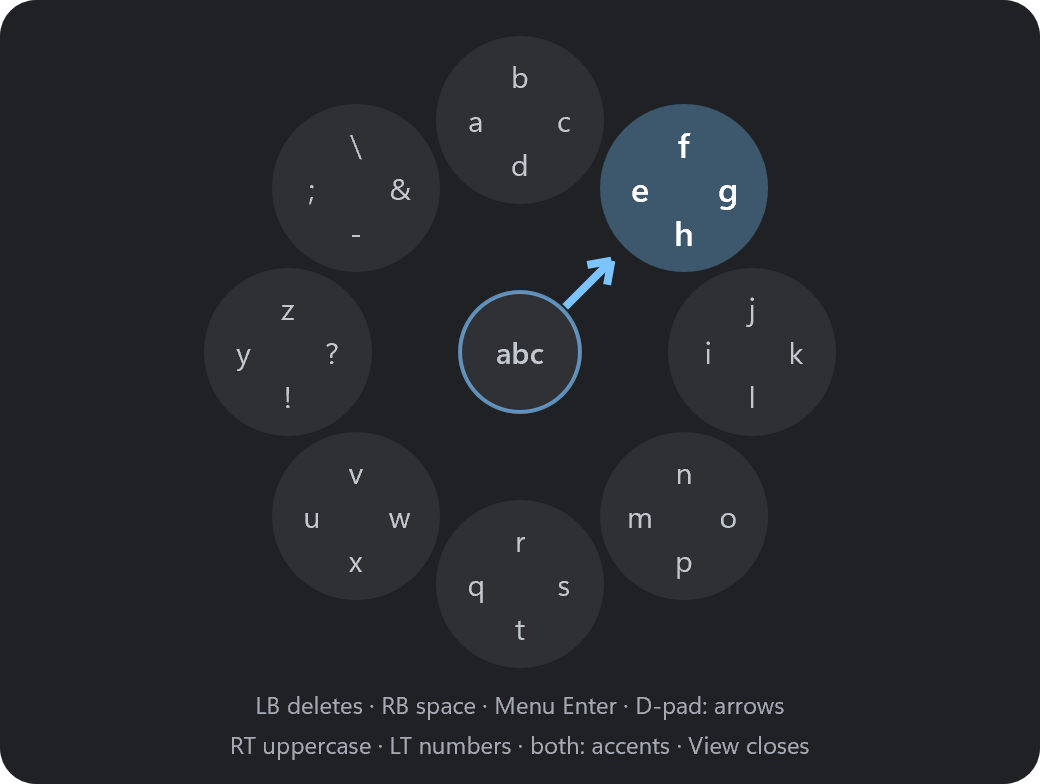
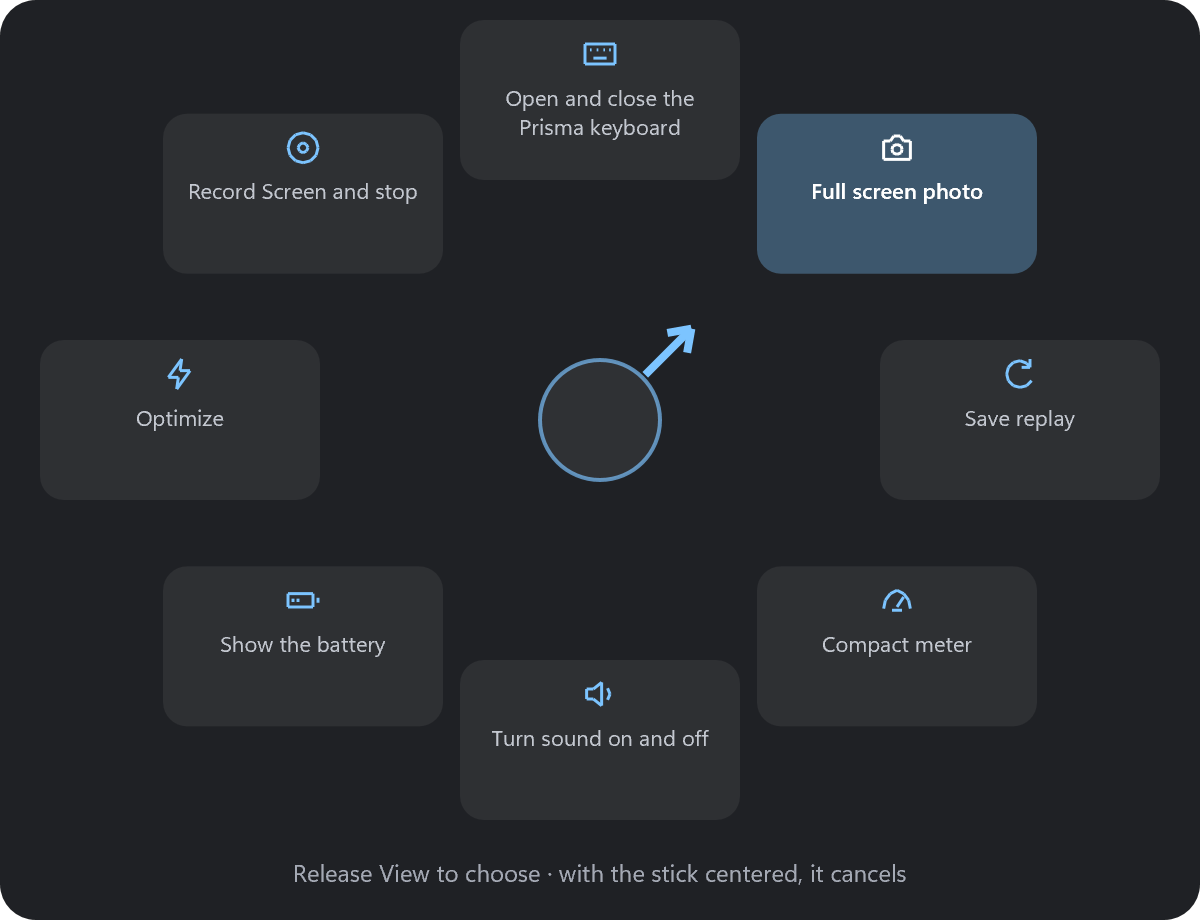
Radial: fotos do manual, dois círculos separados por um traço, uma escolha por linha no cartão e traduções mais curtas que cabiam cortadas

diff --git a/src/pages/controllers.rs b/src/pages/controllers.rs
@@ -424,7 +424,7 @@ fn radial(ui: &mut Ui, app: &mut App, at: Rect) -> f32 {
     use crate::sys::remap;
     const DIRS: [&str; 8] = ["↑", "↗", "→", "↘", "↓", "↙", "←", "↖"];
     let two = app.cfg.pad_radial_two;
-    let r = rect(at.x, at.y, at.w, if two { 794.0 } else { 618.0 });
+    let r = rect(at.x, at.y, at.w, if two { 1128.0 } else { 788.0 });
     ui.card(r);
     ui.title(rect(r.x + 16.0, r.y + 12.0, r.w - 32.0, 22.0), "Radial do Prisma");
     ui.c.text_wrap(rect(r.x + 16.0, r.y + 40.0, r.w - 32.0, 58.0), "O stick direito aponta. Segurando, soltar o botão dispara; aberto para ficar, A dispara e B fecha.", 12.0, TEXT2, Weight::Regular);
@@ -483,7 +483,6 @@ fn radial(ui: &mut Ui, app: &mut App, at: Rect) -> f32 {
     // Nada, e todas as ações menos o próprio radial.
     let ids: Vec<u8> = std::iter::once(EMPTY).chain((0..remap::ACTIONS.len() as u8).filter(|&a| a != remap::RADIAL)).collect();
     let names: Vec<String> = ids.iter().map(|&a| crate::i18n::tr(remap::ACTIONS.get(a as usize).copied().unwrap_or("Nada")).into_owned()).collect();
-    let col = (r.w - 40.0) / 2.0;
     // Lugares 0 a 7 no stick direito; com dois círculos, 8 a 15 no esquerdo.
     // Um círculo: escolher o stick que aponta; dois: um título para cada stick.
     if !two {
@@ -496,11 +495,12 @@ fn radial(ui: &mut Ui, app: &mut App, at: Rect) -> f32 {
         }
     }
     for i in 0..if two { 16 } else { 8 } {
-        let top = r.y + if two { 398.0 + (i / 8) as f32 * 196.0 } else { 418.0 };
+        let top = r.y + if two { 398.0 + (i / 8) as f32 * 360.0 } else { 418.0 };
         if two && i % 8 == 0 {
             ui.c.text_fit(rect(r.x + 16.0, top, r.w - 32.0, 20.0), &tr(if i == 0 { "Stick direito" } else { "Stick esquerdo" }), 12.0, MUTED, Align::Left, Weight::Semibold);
         }
-        let (cx, cy) = (r.x + 16.0 + (i % 2) as f32 * (col + 8.0), top + 22.0 + (i % 8 / 2) as f32 * 42.0);
+        // Uma escolha por linha: em duas colunas os nomes das ações não cabiam.
+        let (cx, cy) = (r.x + 16.0, top + 22.0 + (i % 8) as f32 * 42.0);
         ui.c.text_raw(rect(cx, cy, 22.0, 34.0), DIRS[i % 8], 16.0, MUTED, Align::Left, Weight::Semibold);
         // No fim: o programa deste lugar (se houver) e escolher um programa. O lugar só muda quando a escolha volta.
         let prog = app.cfg.pad_radial[i] == PROGRAM;
@@ -512,7 +512,7 @@ fn radial(ui: &mut Ui, app: &mut App, at: Rect) -> f32 {
         opts.push(tr(if prog { "Escolher outro programa…" } else { "Abrir um programa…" }));
         let mut sel = if prog { pick_at - 1 } else { ids.iter().position(|&a| a == app.cfg.pad_radial[i]).unwrap_or(0) };
         let menu = format!("pad-radial-run-{i}");
-        if ui.select(&format!("pad-radial-{i}"), rect(cx + 24.0, cy, col - 24.0, 34.0), &opts, &mut sel) {
+        if ui.select(&format!("pad-radial-{i}"), rect(cx + 24.0, cy, r.w - 56.0, 34.0), &opts, &mut sel) {
             if sel == pick_at {
                 ui.menu(&menu, &[("Da lista de programas", true), ("Escolher arquivo .exe", true)]);
             } else if sel < ids.len() {

diff --git a/src/overlays.rs b/src/overlays.rs
@@ -683,7 +683,7 @@ impl Radial {
     }
 
     fn width(&self) -> f32 {
-        if self.two { RD_W * 2.0 - 40.0 } else { RD_W }
+        if self.two { RD_W * 2.0 + 40.0 } else { RD_W }
     }
 
     fn paint(&mut self) {
@@ -693,7 +693,11 @@ impl Radial {
             c.round(r, 18.0, rgb(0x0d0f14).alpha(0.92));
             let cy = 210.0;
             // Com dois círculos, o do stick esquerdo (lugares 8 a 15) fica à esquerda.
-            let rings: &[(f32, usize)] = if two { &[(RD_W / 2.0 - 10.0, 8), (r.w - RD_W / 2.0 + 10.0, 0)] } else { &[(RD_W / 2.0, 0)] };
+            let rings: &[(f32, usize)] = if two { &[(RD_W / 2.0, 8), (r.w - RD_W / 2.0, 0)] } else { &[(RD_W / 2.0, 0)] };
+            // Traço entre os dois círculos, para não parecerem um só.
+            if two {
+                c.line(r.w / 2.0, 40.0, r.w / 2.0, 380.0, WHITE.alpha(0.10), 1.0);
+            }
             for &(cx, first) in rings {
             stick_arrow(c, cx, cy, arrow[if left { 1 } else { first / 8 }]);
             for (i, name) in names.iter().enumerate().skip(first).take(8) {
